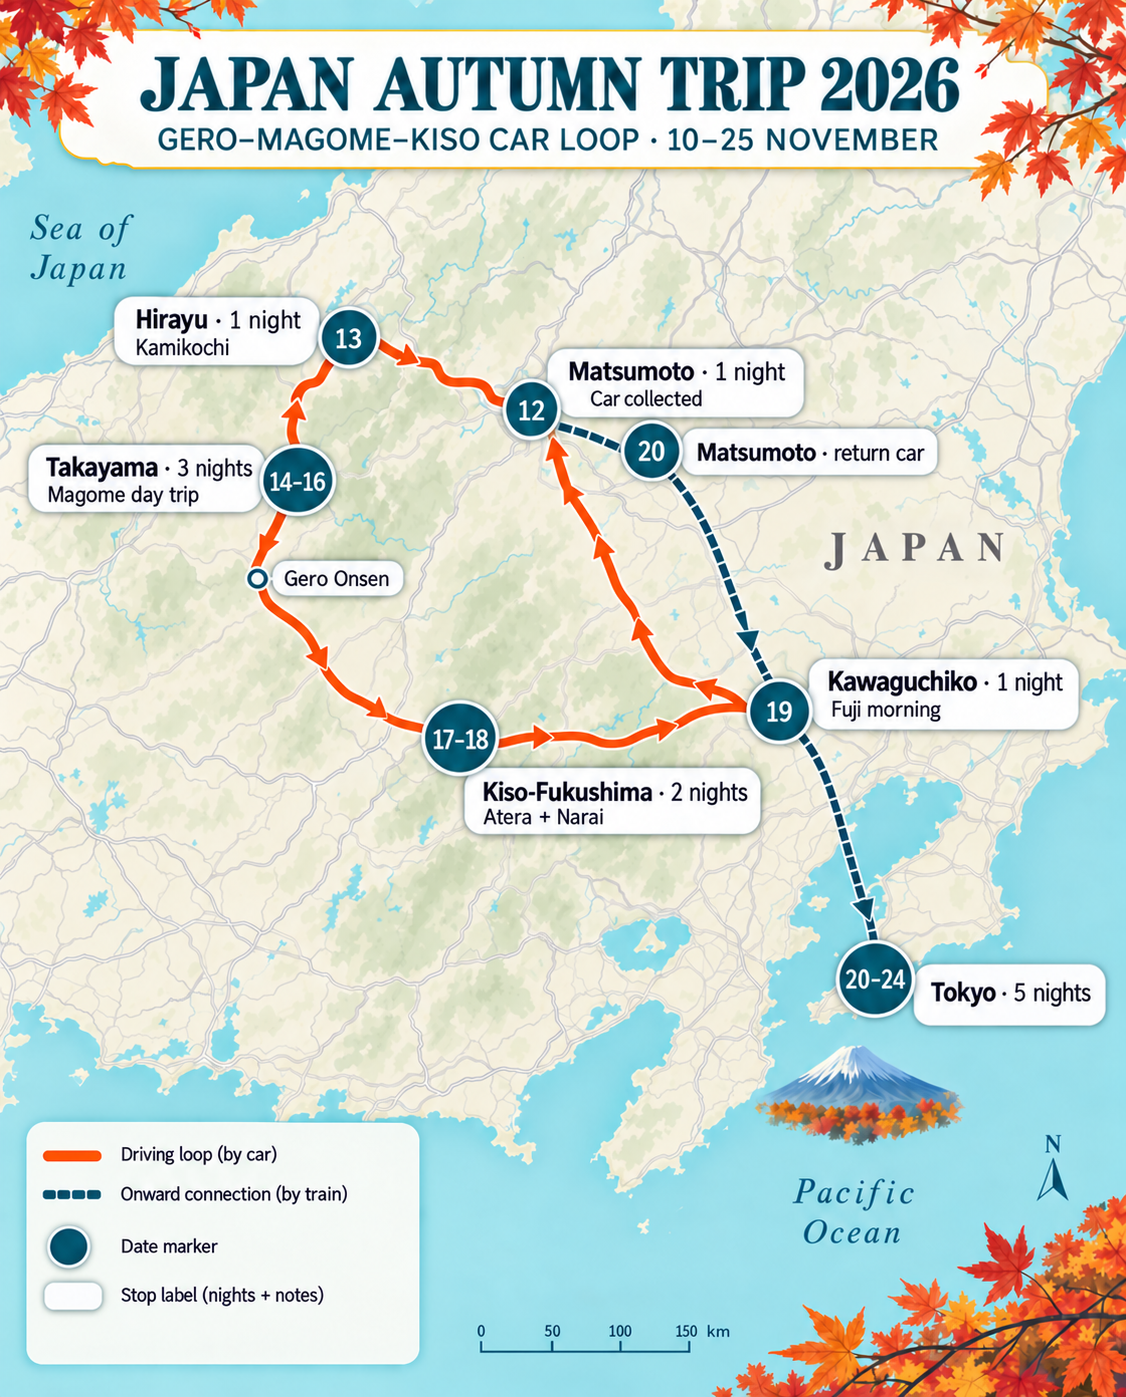
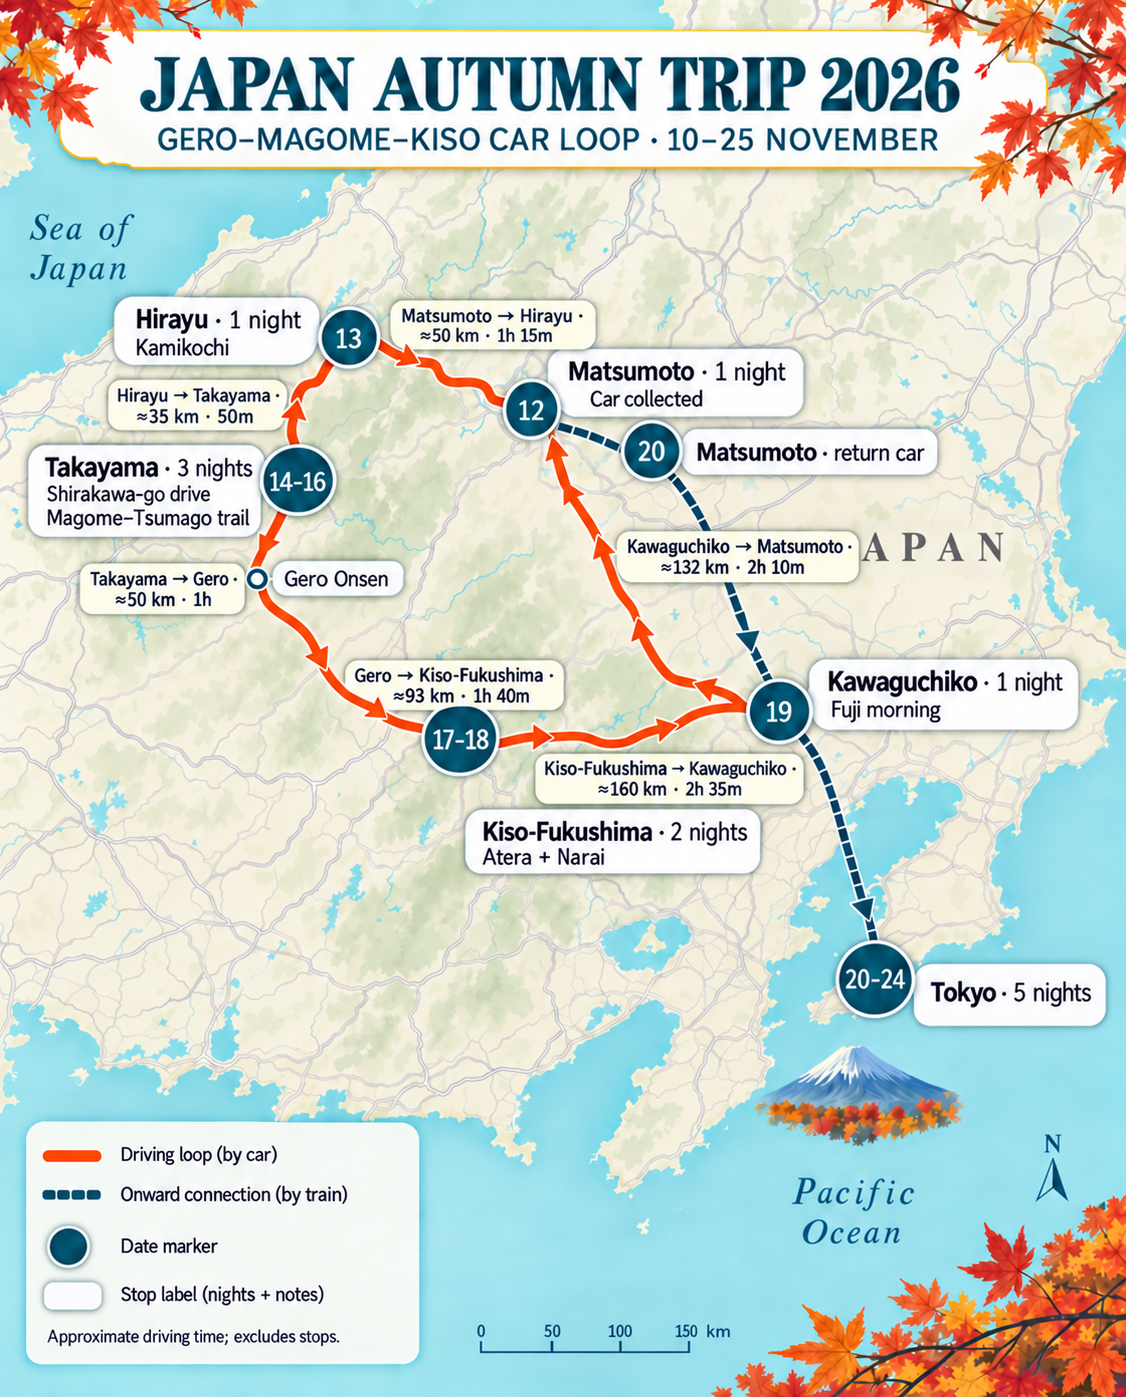
Add driving details to final route maps

diff --git a/index.html b/index.html
@@ -106,8 +106,8 @@
         <div class="version-toolbar"><p>Collect the car in Matsumoto on 12 November. Continue through Hirayu, Takayama, Gero and Kiso-Fukushima; drive to Kawaguchiko on 19 November, return the car in Matsumoto on 20 November and take the Azusa to Tokyo.</p><div class="link-row"><a href="https://www.google.com/maps/dir/?api=1&amp;origin=Matsumoto+Station%2C+Nagano&amp;destination=Matsumoto+Station%2C+Nagano&amp;travelmode=driving&amp;waypoints=Hirayu+Onsen%7CTakayama%2C+Gifu%7CGero+Onsen%7CKiso-Fukushima%7CKawaguchiko%2C+Yamanashi" target="_blank" rel="noreferrer">Open driving loop ↗</a><a href="#itinerary">Open day-by-day plan ↗</a></div></div>
         <div class="version-content-grid final-route-content">
           <div class="route-map-gallery">
-            <figure class="route-map-figure"><a href="assets/maps/japan-balanced-car-loop-map.png" target="_blank"><img src="assets/maps/japan-balanced-car-loop-map.webp" width="1126" height="1397" loading="lazy" decoding="async" alt="Gero–Magome–Kiso car route from Matsumoto through Hirayu, Takayama, Gero and Kiso-Fukushima to Kawaguchiko, returning to Matsumoto on 20 November before the train to Tokyo"><span class="map-mode-marker marker-car" style="--marker-x:38%;--marker-y:45%" aria-hidden="true">🚗</span><span class="map-mode-marker marker-train" style="--marker-x:72%;--marker-y:57%" aria-hidden="true">🚆</span></a><figcaption><span><b>Final car-loop map</b><small>Kawaguchiko before the 20 Nov car return</small></span><a href="assets/maps/japan-balanced-car-loop-map.png" target="_blank">Open full size ↗</a></figcaption></figure>
-            <figure class="route-map-figure"><a href="assets/maps/japan-balanced-car-loop-illustrated.png" target="_blank"><img src="assets/maps/japan-balanced-car-loop-illustrated.webp" width="1024" height="1536" loading="lazy" decoding="async" alt="Illustrated Gero–Magome–Kiso route through Kamikochi, Takayama, Gero and Kiso to Kawaguchiko, returning by car to Matsumoto and continuing by train to Tokyo"><span class="map-mode-marker marker-car" style="--marker-x:43%;--marker-y:47%" aria-hidden="true">🚗</span><span class="map-mode-marker marker-train" style="--marker-x:68%;--marker-y:57%" aria-hidden="true">🚆</span></a><figcaption><span><b>Autumn sights map</b><small>Drive to Fuji, return the car next day</small></span><a href="assets/maps/japan-balanced-car-loop-illustrated.png" target="_blank">Open full size ↗</a></figcaption></figure>
+            <figure class="route-map-figure"><a href="assets/maps/japan-balanced-car-loop-map.png" target="_blank"><img src="assets/maps/japan-balanced-car-loop-map.webp" width="1126" height="1397" loading="lazy" decoding="async" alt="Gero–Magome–Kiso car route with approximate distances and driving times from Matsumoto through Hirayu, Takayama, Gero and Kiso-Fukushima to Kawaguchiko, returning to Matsumoto on 20 November before the train to Tokyo"></a><figcaption><span><b>Final car-loop map</b><small>Distances and no-stop driving estimates included</small></span><a href="assets/maps/japan-balanced-car-loop-map.png" target="_blank">Open full size ↗</a></figcaption></figure>
+            <figure class="route-map-figure"><a href="assets/maps/japan-balanced-car-loop-illustrated.png" target="_blank"><img src="assets/maps/japan-balanced-car-loop-illustrated.webp" width="1024" height="1536" loading="lazy" decoding="async" alt="Illustrated Gero–Magome–Kiso route with approximate driving distances and times, including Shirakawa-go and Magome–Tsumago day trips from Takayama"></a><figcaption><span><b>Autumn sights map</b><small>Takayama day trips and driving estimates included</small></span><a href="assets/maps/japan-balanced-car-loop-illustrated.png" target="_blank">Open full size ↗</a></figcaption></figure>
           </div>
           <div class="version-route-copy"><div class="route-flow compact-route" aria-label="Final road-trip route">
             <div class="route-stop city"><span>10–12 Nov</span><strong>Tokyo</strong><small>2 nights</small><em>Arrival</em></div>
